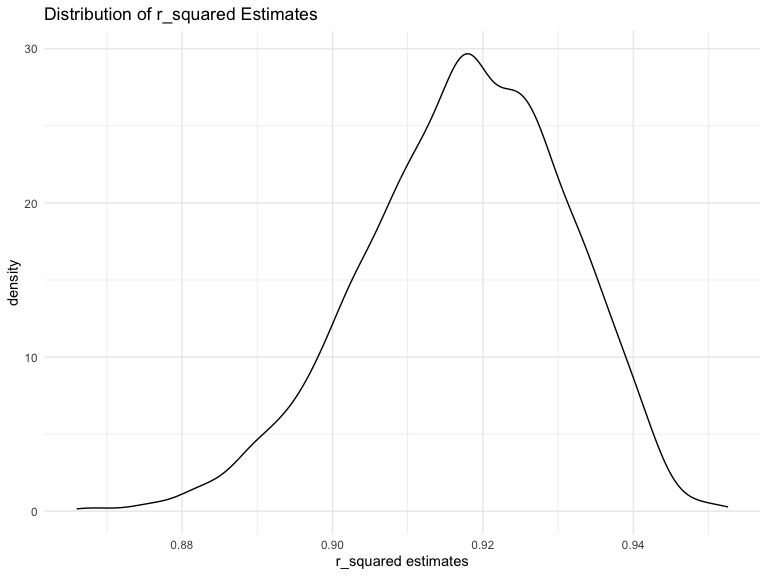
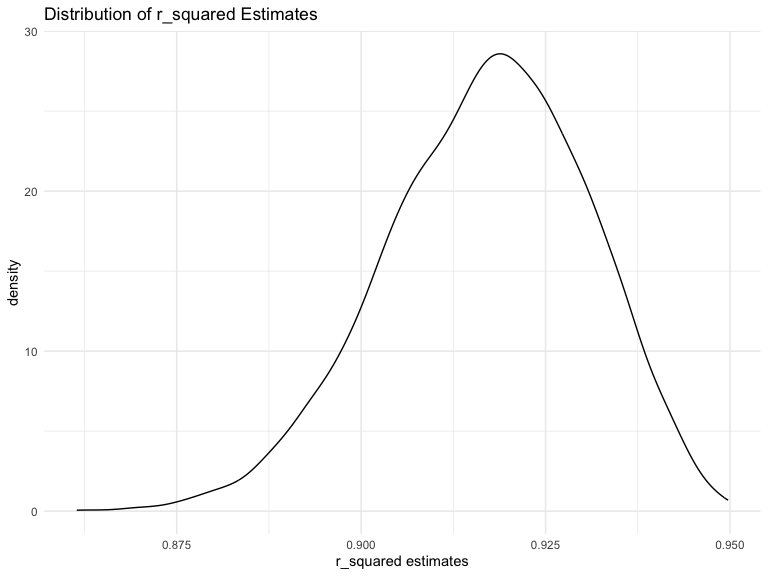
Fit a full model

diff --git a/p8105_hw6_cl4469.md b/p8105_hw6_cl4469.md
@@ -25,6 +25,8 @@ library(viridis)
     ## Loading required package: viridisLite
 
 ``` r
+library(modelr)
+
 knitr::opts_chunk$set(
     echo = TRUE,
     warning = FALSE,
@@ -262,8 +264,8 @@ r_squared_ci
 
 |       |         x |
 |:------|----------:|
-| 2.5%  | 0.8888421 |
-| 97.5% | 0.9406928 |
+| 2.5%  | 0.8881528 |
+| 97.5% | 0.9412636 |
 
 The 95% confidence interval for log(beta_1 \* beta_2)
 
@@ -278,8 +280,8 @@ log_beta12_ci
 
 |       |         x |
 |:------|----------:|
-| 2.5%  | -9.151877 |
-| 97.5% | -4.542166 |
+| 2.5%  | -9.085632 |
+| 97.5% | -4.525609 |
 
 ### Problem 3
 
@@ -332,3 +334,46 @@ birth_tidy = birth |>
 ```
 
 There’s no NAs in the original dataset.
+
+``` r
+# fit a full model
+full_model = lm(bwt ~ ., data = birth_tidy) %>% 
+  step(direction = "backward", trace = FALSE) 
+
+full_model %>% 
+  broom::tidy() %>% 
+  knitr::kable()
+```
+
+| term              |      estimate |   std.error |   statistic |   p.value |
+|:------------------|--------------:|------------:|------------:|----------:|
+| (Intercept)       | -6145.1506698 | 141.9496468 | -43.2910599 | 0.0000000 |
+| babysexmale       |   -28.5580171 |   8.4548958 |  -3.3776900 | 0.0007374 |
+| bhead             |   130.7770408 |   3.4465672 |  37.9441440 | 0.0000000 |
+| blength           |    74.9471109 |   2.0190479 |  37.1200270 | 0.0000000 |
+| delwt             |     4.1067316 |   0.3920592 |  10.4747754 | 0.0000000 |
+| fincome           |     0.3180229 |   0.1747477 |   1.8198980 | 0.0688436 |
+| gaweeks           |    11.5924873 |   1.4620657 |   7.9288417 | 0.0000000 |
+| mheight           |     6.5940377 |   1.7848817 |   3.6943835 | 0.0002231 |
+| mraceBlack        |   -63.9057046 |  42.3662612 |  -1.5084103 | 0.1315225 |
+| mracePuerto Rican |   -25.7913672 |  45.3501537 |  -0.5687162 | 0.5695783 |
+| mraceWhite        |    74.8867755 |  42.3146313 |   1.7697608 | 0.0768374 |
+| parity            |    96.3046933 |  40.3362158 |   2.3875490 | 0.0170038 |
+| ppwt              |    -2.6755853 |   0.4273585 |  -6.2607517 | 0.0000000 |
+| smoken            |    -4.8434197 |   0.5855757 |  -8.2712102 | 0.0000000 |
+
+``` r
+birth_tidy |>
+    add_predictions(full_model) |>
+    add_residuals(full_model) |>
+    ggplot(aes(x = pred, y = resid)) +
+    geom_point()  + 
+    geom_smooth(method = "lm") + 
+    labs(title = "Residuals Against Fitted Values", 
+       x = "Fitted Values", 
+       y = "Residuals")
+```
+
+    ## `geom_smooth()` using formula = 'y ~ x'
+
+<img src="p8105_hw6_cl4469_files/figure-gfm/unnamed-chunk-11-1.png" width="90%" />
